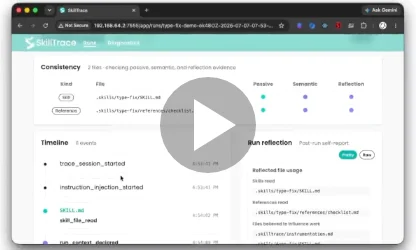
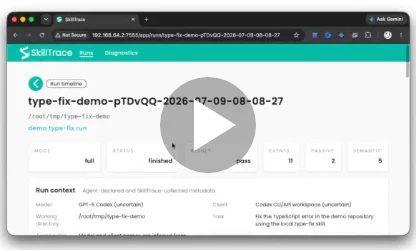
Update README images

diff --git a/README.md b/README.md
@@ -22,7 +22,7 @@ SkillTrace is aimed at people developing and debugging agent skills.
 <table>
   <tr>
     <td>
-      <a href="https://github.com/user-attachments/assets/ed189e53-6c31-4a65-bdbf-7b8b8c5d94a7" target=”_blank”>
+      <a href="https://github.com/user-attachments/assets/f903560b-ac99-4ed8-b1be-4cf99482a291" target=”_blank”>
         <img src="docs/images/skilltrace-video-cover.webp" height="250px" />
       </a>
       <br />
@@ -74,15 +74,15 @@ containers, operating systems, and SkillTrace versions.
 <table>
   <tr>
     <td>
-      <img src="https://raw.githubusercontent.com/hideya/skill-trace/main/docs/images/skilltrace-runs.webp" height="250px"><br>
-      <sub>SkillTrace runs page</sub>
+      <img src="docs/images/skilltrace-run-details-1.webp" height="250px"><br>
+      <sub>SkillTrace Run Details Page</sub>
     </td>
     <td>
-      <img src="https://raw.githubusercontent.com/hideya/skill-trace/main/docs/images/skilltrace-run-details-1.webp" height="250px"><br>
-      <sub>Run Details Page</sub>
+      <img src="docs/images/skilltrace-run-details-2.webp" height="250px"><br>
+      <sub>Consistency Check</sub>
     </td>
     <td>
-      <img src="https://raw.githubusercontent.com/hideya/skill-trace/main/docs/images/skilltrace-run-details-2.webp" height="250px"><br>
+      <img src="docs/images/skilltrace-run-details-3.webp" height="250px"><br>
       <sub>Run Timeline</sub>
     </td>
   </tr>
@@ -402,20 +402,22 @@ there is no second evidence stream to compare.
 <table>
   <tr>
     <td>
-      <img src="https://raw.githubusercontent.com/hideya/skill-trace/main/docs/images/skilltrace-runs.webp" height="250px"><br>
+      <img src="docs/images/skilltrace-runs.webp" height="250px"><br>
       <sub>SkillTrace runs page</sub>
     </td>
     <td>
-      <img src="https://raw.githubusercontent.com/hideya/skill-trace/main/docs/images/skilltrace-run-details-1.webp" height="250px"><br>
+      <img src="docs/images/skilltrace-run-details-1.webp" height="250px"><br>
       <sub>Run Details Page</sub>
     </td>
+  </tr>
+  <tr>
     <td>
-      <img src="https://raw.githubusercontent.com/hideya/skill-trace/main/docs/images/skilltrace-run-details-2.webp" height="250px"><br>
-      <sub>Run Timeline</sub>
+      <img src="docs/images/skilltrace-run-details-2.webp" height="250px"><br>
+      <sub>Consistency Check</sub>
     </td>
     <td>
-      <img src="https://raw.githubusercontent.com/hideya/skill-trace/main/docs/images/skilltrace-diagnostics.webp" height="250px"><br>
-      <sub>Diagnostics Page</sub>
+      <img src="docs/images/skilltrace-run-details-3.webp" height="250px"><br>
+      <sub>Run Timeline</sub>
     </td>
   </tr>
 </table>
@@ -443,7 +445,7 @@ skill scans do not obscure differences in material skill or reference use.
 <table>
   <tr>
     <td>
-      <img src="https://raw.githubusercontent.com/hideya/skill-trace/main/docs/images/skilltrace-run-mode-comparison.webp" height="250px"><br>
+      <img src="docs/images/skilltrace-run-mode-comparison.webp" height="250px"><br>
       <sub>Run mode comparison page</sub>
     </td>
   </tr>
@@ -472,11 +474,11 @@ its captured provenance.
 <table>
   <tr>
     <td>
-      <img src="https://raw.githubusercontent.com/hideya/skill-trace/main/docs/images/skilltrace-snapshot-1.webp" height="250px"><br>
+      <img src="docs/images/skilltrace-snapshot-1.webp" height="250px"><br>
       <sub>Git Info Section</sub>
     </td>
     <td>
-      <img src="https://raw.githubusercontent.com/hideya/skill-trace/main/docs/images/skilltrace-snapshot-2.webp" height="250px"><br>
+      <img src="docs/images/skilltrace-snapshot-2.webp" height="250px"><br>
       <sub>File Diff Dialog</sub>
     </td>
 </table>

diff --git a/examples/type-fix-demo/.agents/skills/type-fix/SKILL.md b/examples/type-fix-demo/.agents/skills/type-fix/SKILL.md
@@ -4,7 +4,7 @@ This is a SkillTrace demo skill fixture. It is not an installed Codex skill.
 
 ## Applicability
 
-Use this skill when the user asks to fix TypeScript, syntax, or source errors in this demo repository.
+Use this skill when the user asks to fix TypeScript, syntax, or source errors in this repository.
 
 ## SkillTrace Metadata
 
